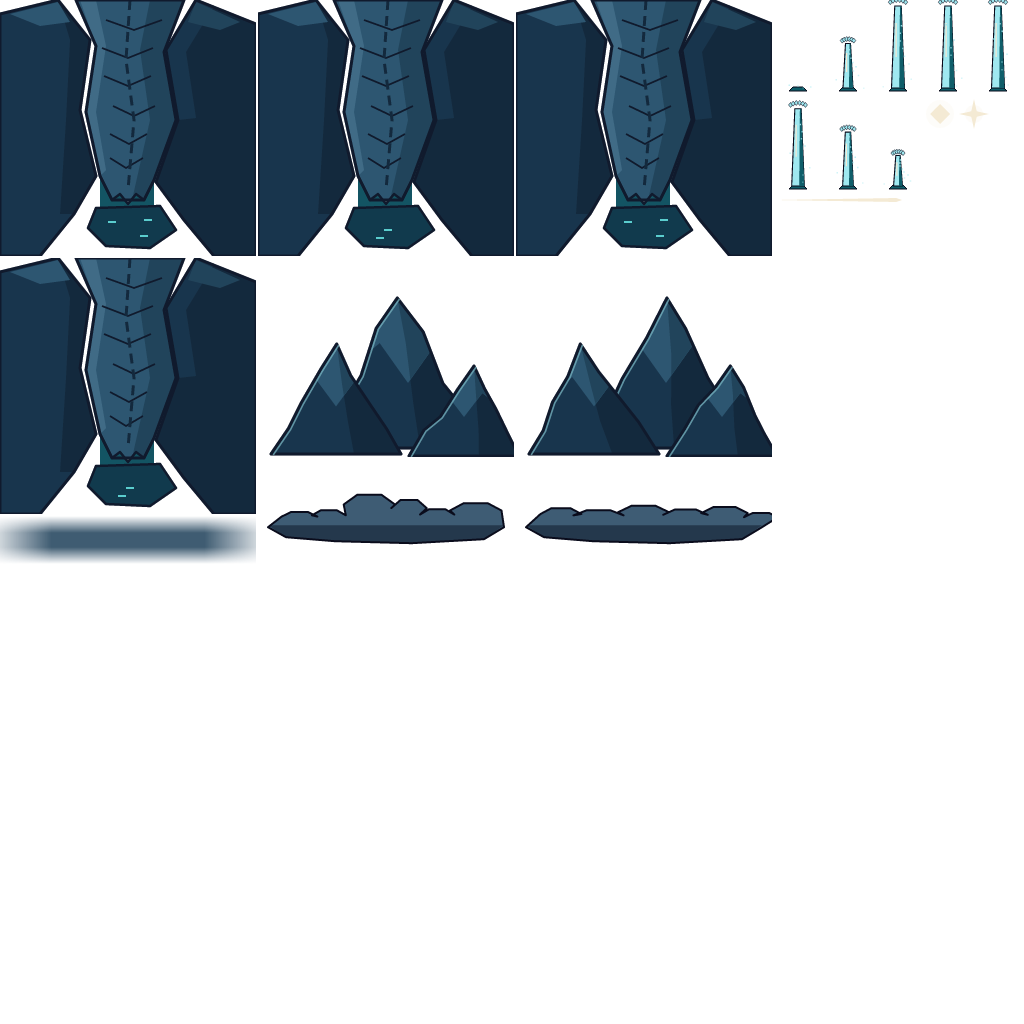
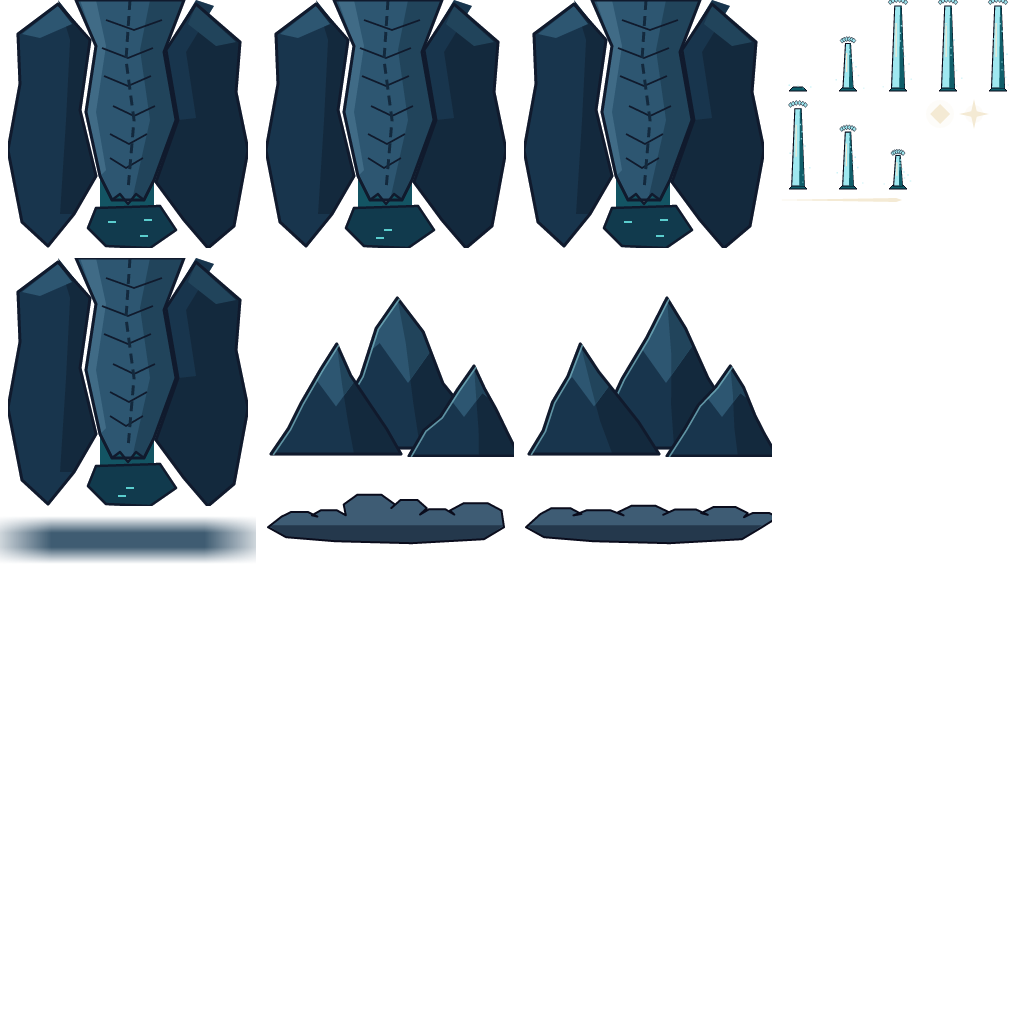
fix(art): glacier ridges taper inside the sprite instead of meeting its edges

diff --git a/Pause/Assets/Art/Worlds/src~/frost.py b/Pause/Assets/Art/Worlds/src~/frost.py
@@ -213,8 +213,8 @@ def glacier(phase):
     moraine, an ice-cliff snout and a meltwater lake whose dashes flow
     (4 frames). One shadow + one highlight tone per form; hazed."""
     w, h = 256, 256
-    lr = [(0, 14), (58, 0), (90, 40), (80, 110), (96, 176), (74, 214), (40, 256), (0, 256)]
-    rr = [(256, 24), (196, 0), (166, 50), (178, 120), (156, 182), (184, 220), (214, 256), (256, 256)]
+    lr = [(18, 34), (58, 4), (90, 40), (80, 110), (96, 176), (74, 214), (48, 246), (22, 222), (8, 150), (20, 84)]
+    rr = [(240, 42), (196, 4), (166, 50), (178, 120), (156, 182), (184, 220), (208, 248), (234, 226), (248, 150), (236, 92)]
     tl = [(76, 0), (96, 46), (86, 112), (100, 176), (112, 200)]
     tr = [(184, 0), (164, 52), (176, 120), (154, 180), (144, 200)]
     tongue = tl + list(reversed(tr))
@@ -223,10 +223,10 @@ def glacier(phase):
     g.append(f'<polygon points="{pts(lr)}" fill="{P["big"]["lit"]}"/>')
     g.append(f'<polygon points="{pts([(58, 0), (90, 40), (80, 110), (96, 176), (74, 214), (60, 214), (66, 120), (70, 40)])}" '
              f'fill="{P["big"]["dark"]}"/>')
-    g.append(f'<polygon points="{pts([(10, 14), (58, 2), (70, 22), (40, 26)])}" fill="{P["big"]["cap"]}"/>')
+    g.append(f'<polygon points="{pts([(22, 34), (58, 6), (72, 24), (40, 38)])}" fill="{P["big"]["cap"]}"/>')
     g.append(f'<polygon points="{pts(rr)}" fill="{P["big"]["dark"]}"/>')
     g.append(f'<polygon points="{pts([(196, 0), (166, 50), (178, 120), (196, 118), (186, 52), (214, 6)])}" fill="{P["big"]["lit"]}"/>')
-    g.append(f'<polygon points="{pts([(196, 2), (240, 22), (220, 30), (188, 22)])}" fill="{P["big"]["cap_dark"]}"/>')
+    g.append(f'<polygon points="{pts([(196, 6), (236, 42), (216, 46), (188, 24)])}" fill="{P["big"]["cap_dark"]}"/>')
     # ice tongue
     g.append(f'<polygon points="{pts(tongue)}" fill="{P["big"]["cap"]}"/>')
     g.append(f'<polygon points="{pts([(150, 0), (184, 0), (164, 52), (176, 120), (154, 180), (144, 200), (132, 200), (150, 120), (140, 50)])}" '
